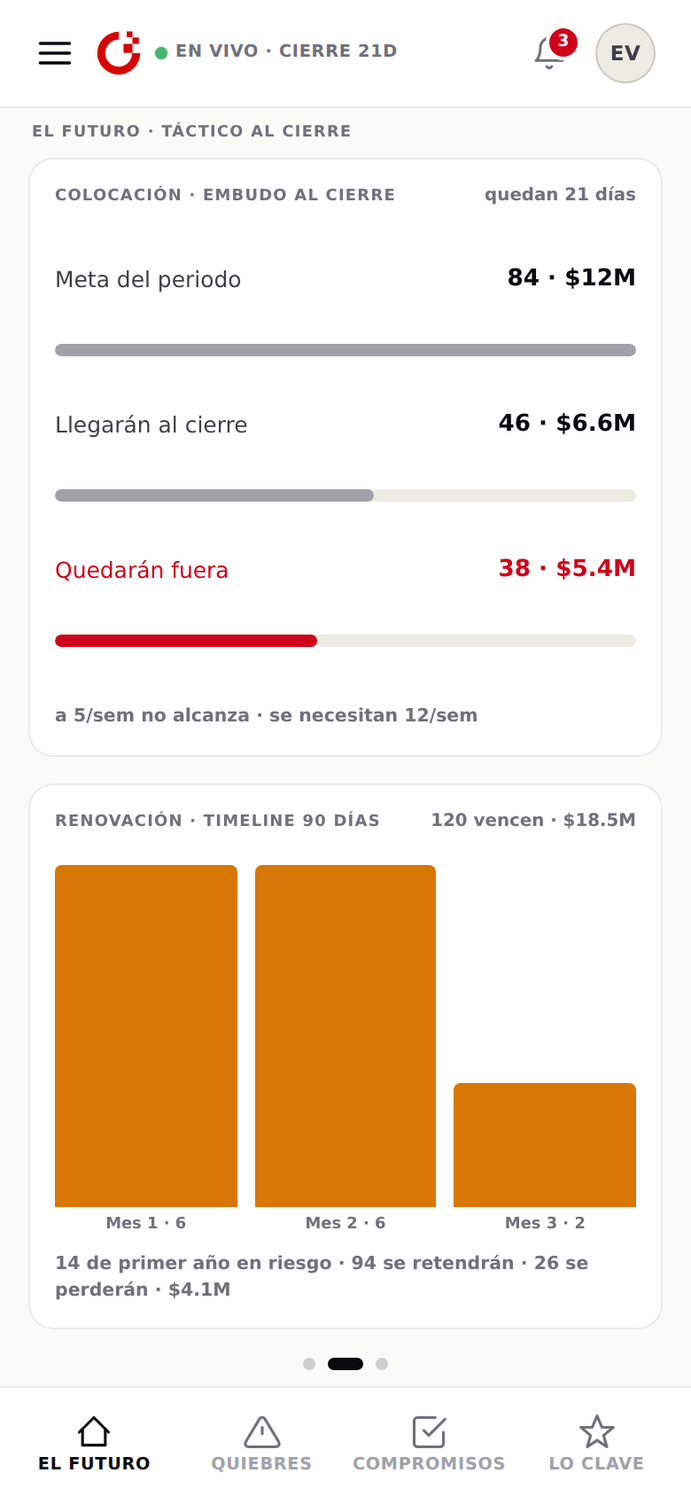
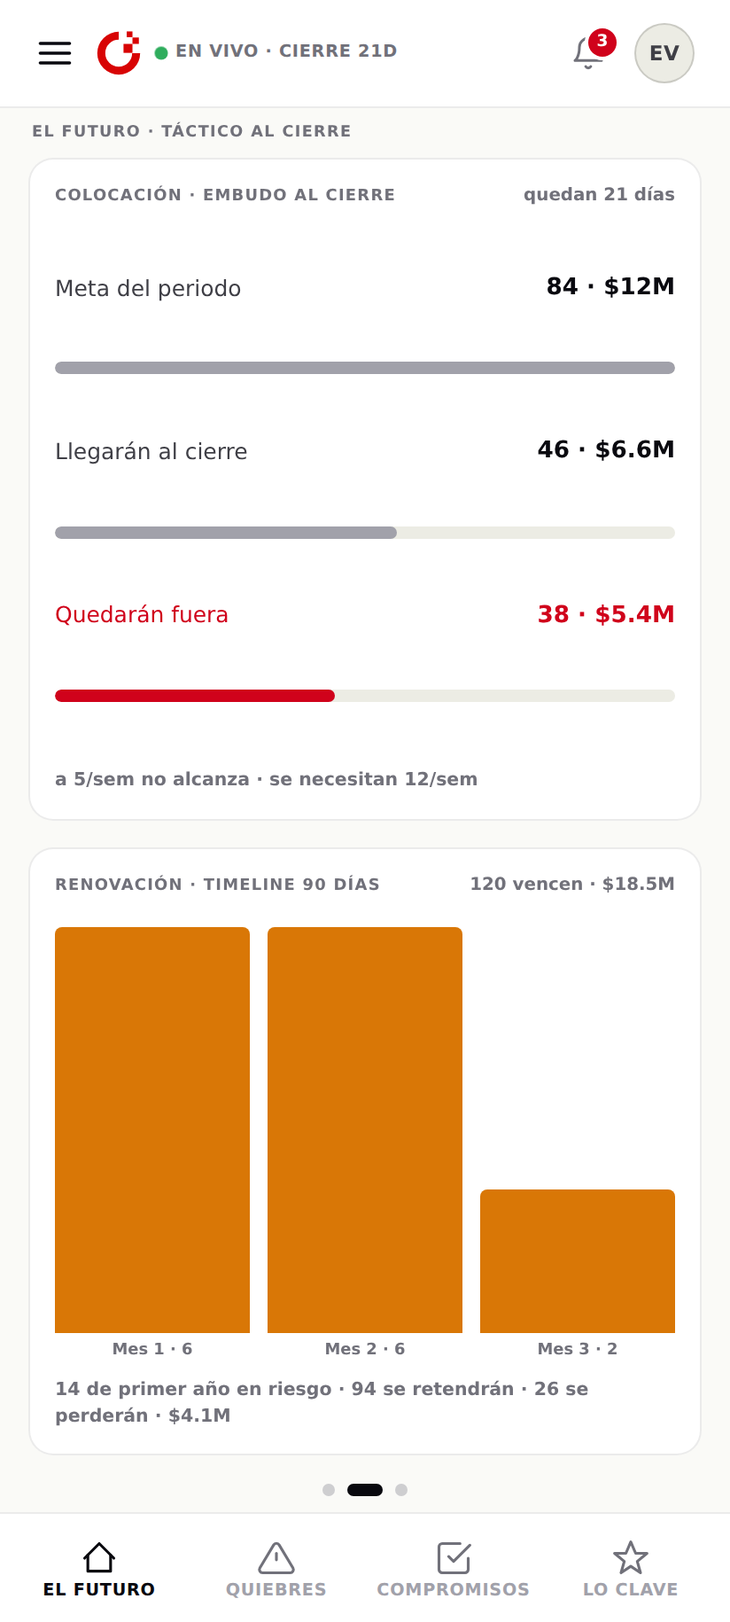
Desarrollo · Ontikos móvil: el tile de El Futuro con la anatomía de «Mi Semana»
Juicio del dueño: los tiles se veían amontonados, sin grilla interna, sin aire
pese a la altura, y los botones «de juguete». Se rehace la tarjeta leyendo el
CÓDIGO de la referencia viva (ontikos/mi-semana.html), no un resumen:

- Anatomía de Mi Semana: tarjeta radio 16 con sombra sutil y BORDE en el estado;
  ícono grande (estado) · título (700) · cifra con su pie · línea de contexto ·
  barra delgada 6px (999) con muesca · BOTÓN-PÍLDORA a lo ancho, relleno en el
  estado, ≥46px (instrumento, no juguete). Fuente: .card/.icon/.btn-logro.
- Aire repartido: el contenido va en dos bloques (texto arriba, barra+botón
  abajo) con space-between; el alto sobrante es aire, no hueco. La tarjeta
  respira como la referencia.
- Grilla adaptativa (minmax(min-content,1fr)): en el teléfono alto el 2×2 LLENA
  la pantalla sin scroll; en el corto guarda el alto airoso y la entrada se
  desplaza —como la propia Mi Semana—, sin recortar nunca el botón.
- Se quitan el filo lateral de 3px (la referencia usa borde completo) y el chip
  de estado (el color ya lo cargan borde+ícono+barra+botón).
- marco.html: §2 reescrito (anatomía de Mi Semana), §4 auditoría adaptativa
  (recortes=0 en toda la gama), §5 color; imágenes regeneradas.

Verificado con Playwright: recortes=0 en 13 mini, 15/16, 16 Pro Max, Pixel 8,
Pixel con barras, Galaxy S8 (todos LLENAN sin scroll), e iPhone SE 667 (+30px)
y SE con barras 553 (+152px), airosos y sin recortes.
[…]

diff --git a/desarrollo/movil/marco.html b/desarrollo/movil/marco.html
@@ -91,7 +91,7 @@ footer p{font-size:.84rem;color:var(--ink3);max-width:74ch}
     <h1>El marco de aplicación</h1>
     <p class="lede">Paso 3, rehecho. Ya no son piezas sobre una página que se desplaza entera: es una app. El marco no se mueve, la entrada se pagina, y el contenido es el del escritorio, de la misma fuente.</p>
     <p>La cabecera y la barra inferior quedan fijas; sólo la superficie corre. El Futuro se recorre de lado, página completa, sin desplazamiento vertical. Las otras secciones son listas que corren dentro de su zona. Dos niveles de navegación: la hamburguesa para los módulos, la barra inferior para las superficies del CEO. La gramática §5·G no se tocó.</p>
-    <span class="verdict">✓ La entrada cabe SIN scroll en el peor caso (iPhone SE · Safari con barras · 375×553)</span>
+    <span class="verdict">✓ Tile con la anatomía de «Mi Semana»: llena sin scroll en la gama moderna; airoso y sin recortes en los equipos cortos</span>
   </div>
 
   <!-- §1 ARQUITECTURA -->
@@ -132,22 +132,23 @@ footer p{font-size:.84rem;color:var(--ink3);max-width:74ch}
   <!-- §2 ENTRADA PAGINADA -->
   <div class="sec">
     <div class="sec-n">§2</div>
-    <h2>La entrada se pagina · el tile, recompuesto con semáforo</h2>
-    <p class="intro"><b>Composición de «Mi Semana»</b> (EstructuraMovil, vendedor móvil) <b>con su semáforo</b>: una idea por tile, aire y ritmo vertical constante, <b>y el color = estado de cumplimiento</b>, igual que el escritorio (<code>casa.css .card.alert/.good/.warn</code>). Cada tile lo lleva en tres canales a la vez —nunca sólo color—: el <b>filo lateral</b> de 3&nbsp;px, el <b>ícono</b> del frente (los mismos del escritorio: tendencia, maletín, renovar, triángulo) y el <b>botón relleno</b> en el estado (<b class="k-red">rojo</b> quiebre · ámbar advertencia · verde sano). La anatomía, igual en los cuatro: ícono + título (700) · estado en palabra (su propia línea, sin truncar) · la cifra con su barra y <b>muesca de referencia</b> (industria 84%, umbral 65%) · una línea de contexto · el acto como <b>botón real</b> ≥44&nbsp;px. El arco de escritorio no entra en el tile: vive en la hoja de detalle. <b>Se retiró la barra de decisión del pie:</b> cada tile ya remata en su propio acto, así que era redundante y su alto obligaba a desplazar y rompía la grilla; con ella fuera la 2×2 llena el alto y <b>cabe en el iPhone SE sin scroll</b>. La marca de la cabecera es ahora el <b>botón de inicio</b> (toca → El Futuro) con el <b>gesto del escritorio</b> (el anillo gira, los módulos entran).</p>
+    <h2>La entrada se pagina · el tile, con la anatomía de «Mi Semana»</h2>
+    <p class="intro"><b>Anatomía leída del código de la referencia viva</b> (<code>ontikos/mi-semana.html</code>, la tarjeta que el dueño señaló como bien hecha), no de un resumen: tarjeta de radio 16 con sombra sutil y <b>borde en el color del estado</b>; dentro, <b>ícono grande</b> en el estado · <b>título</b> (700) · la cifra con su pie · una línea de contexto · <b>barra delgada</b> (6&nbsp;px, 999) con <b>muesca de referencia</b> (industria 84%, umbral 65%) · un <b>botón-píldora a lo ancho</b>, relleno en el estado, ≥46&nbsp;px (instrumento, no juguete). El contenido se reparte en dos bloques —arriba el texto, abajo barra+botón— con <code>space-between</code>, de modo que el alto sobrante es <b>aire repartido</b>, no un hueco: la tarjeta respira como la referencia. Color = estado en <b>borde + ícono + barra + botón</b> (nunca sólo matiz: lo acompañan la forma del ícono y la palabra del contexto). El arco de escritorio no entra en el tile: vive en la hoja. <b>La grilla se adapta sola</b> (<code>minmax(min-content, 1fr)</code>): en el teléfono alto el 2×2 <b>llena la pantalla sin scroll</b>; en el corto las tarjetas guardan su alto airoso y la entrada <b>se desplaza —como la propia «Mi Semana»—</b>, sin recortar nunca el botón. La marca de la cabecera es el <b>botón de inicio</b> con el <b>gesto del escritorio</b>.</p>
     <div class="pair" style="margin-bottom:8px">
       <div class="unit"><div class="phone sm"><img src="img/mf-before.png" alt="Tile antes · arco y celdas"></div><div class="lbl">Antes · arco (velocímetro)</div></div>
-      <div class="unit"><div class="phone sm"><img src="img/mf-f1.png" alt="Tile ahora · semáforo + ícono"></div><div class="lbl">Ahora · semáforo + ícono</div></div>
+      <div class="unit"><div class="phone sm"><img src="img/mf-f1.png" alt="Tile ahora · anatomía de Mi Semana"></div><div class="lbl">Ahora · como Mi Semana</div></div>
       <div class="unit"><div class="phone sm"><img src="img/mf-before-dk.png" alt="Antes oscuro"></div><div class="lbl">Antes · oscuro</div></div>
       <div class="unit"><div class="phone sm"><img src="img/mf-f1-dk.png" alt="Ahora oscuro"></div><div class="lbl">Ahora · oscuro</div></div>
     </div>
     <div class="formlist">
-      <span class="fm">composición <span class="src">Mi Semana · EstructuraMovil (vendedor móvil)</span></span>
-      <span class="fm">color = estado: filo + ícono + botón <span class="src">casa · .card.alert/.good/.warn</span></span>
+      <span class="fm">anatomía (tarjeta, ícono, barra, botón) <span class="src">ontikos/mi-semana.html · .card/.icon/.btn-logro</span></span>
+      <span class="fm">color = estado: borde + ícono + barra + botón <span class="src">mi-semana · .state-risk/-progress/-done</span></span>
       <span class="fm">ícono por frente <span class="src">TableroCeo.jsx · ICON.coloc/cobr/reno/sini</span></span>
-      <span class="fm">barra delgada + muesca <span class="src">casa · .vd-meta-bar</span></span>
+      <span class="fm">barra 6px (999) + muesca <span class="src">mi-semana · .card-progress</span></span>
+      <span class="fm">botón-píldora a lo ancho ≥46px <span class="src">mi-semana · .btn-logro</span></span>
+      <span class="fm">aire repartido (space-between) + grilla que se adapta <span class="src">minmax(min-content,1fr)</span></span>
       <span class="fm">el arco vive en la hoja <span class="src">§5·G: arco en escritorio, barra en móvil</span></span>
       <span class="fm">marca = inicio, con gesto <span class="src">Marca.jsx · anillo + módulos</span></span>
-      <span class="fm">paginador + puntos <span class="src">pieza nueva</span></span>
     </div>
     <div class="pair">
       <div class="unit"><div class="phone sm"><img src="img/mf-f1.png" alt="El Futuro página 1 claro"></div><div class="lbl">P1 · claro</div></div>
@@ -181,25 +182,25 @@ footer p{font-size:.84rem;color:var(--ink3);max-width:74ch}
   <div class="sec">
     <div class="sec-n">§4</div>
     <h2>La auditoría de alturas</h2>
-    <p class="intro">Medida con el viewport visible real (<code>visualViewport</code>). Entrada = las dos filas de tiles (2×2) que <b>llenan</b> el alto, con los puntos del paginador y la barra inferior siempre visibles; Quiebres = indicadores + filtros + primera fila completa. Al retirar la barra de decisión, la grilla toma el alto que antes forzaba el scroll: <b>la entrada cabe sin desplazarse en toda la gama, incluido el peor caso</b> (SE con barras). «grilla→puntos» es el aire entre el fondo de la 2×2 y la banda de puntos.</p>
+    <p class="intro">Medida con el viewport visible real (<code>visualViewport</code>). El tile airoso de «Mi Semana» no cabe comprimido en una celda de 2×2 corta sin recortar el botón —y comprimir el aire es justo lo que se veía de juguete—. Por eso la grilla se <b>adapta</b> (<code>minmax(min-content,&nbsp;1fr)</code>): <b>en el teléfono alto llena la pantalla sin scroll</b>; en el corto guarda el alto airoso y la <b>entrada se desplaza —como la propia «Mi Semana»—, sin recortar nunca el botón</b> (<code>recortes = 0</code> en toda la gama). «Scroll» es cuánto se desplaza la entrada en vertical.</p>
     <table class="audit">
       <thead><tr>
         <th>Dispositivo</th><th>Viewport</th><th>Área segura ↑/↓</th>
-        <th>El Futuro · scroll</th><th>grilla→puntos</th><th>Quiebres · margen fila 1</th><th>Veredicto</th>
+        <th>El Futuro · scroll</th><th>Botón recortado</th><th>Quiebres · margen fila 1</th><th>Veredicto</th>
       </tr></thead>
       <tbody>
-        <tr><td class="dev">iPhone 13 mini</td><td>375 × 812</td><td>44 / 34</td><td class="ok">0 px</td><td>+6 px</td><td>+294 px</td><td class="ok">Cabe sin scroll</td></tr>
-        <tr><td class="dev">iPhone 15 / 16</td><td>393 × 852</td><td>59 / 34</td><td class="ok">0 px</td><td>+6 px</td><td>+334 px</td><td class="ok">Cabe sin scroll</td></tr>
-        <tr><td class="dev">iPhone 16 Pro Max</td><td>440 × 956</td><td>62 / 34</td><td class="ok">0 px</td><td>+6 px</td><td>+459 px</td><td class="ok">Cabe sin scroll</td></tr>
-        <tr><td class="dev">Pixel 8 (Android)</td><td>412 × 915</td><td>24 / 24</td><td class="ok">0 px</td><td>+6 px</td><td>+397 px</td><td class="ok">Cabe sin scroll</td></tr>
-        <tr><td class="dev">Pixel · con barras*</td><td>412 × 780</td><td>— / —</td><td class="ok">0 px</td><td>+6 px</td><td>+262 px</td><td class="ok">Cabe sin scroll</td></tr>
-        <tr><td class="dev">iPhone SE</td><td>375 × 667</td><td>20 / 0</td><td class="ok">0 px</td><td>+4 px</td><td>+149 px</td><td class="ok">Cabe sin scroll</td></tr>
-        <tr class="worst"><td class="dev">iPhone SE · barras*</td><td>375 × 553</td><td>0 / 0</td><td class="ok">0 px</td><td>+4 px</td><td>+35 px</td><td class="ok">Cabe sin scroll</td></tr>
-        <tr><td class="dev">Galaxy S8 (Android)</td><td>360 × 740</td><td>24 / 24</td><td class="ok">0 px</td><td>+4 px</td><td>+202 px</td><td class="ok">Cabe sin scroll</td></tr>
+        <tr><td class="dev">iPhone 13 mini</td><td>375 × 812</td><td>44 / 34</td><td class="ok">0 px</td><td class="ok">no</td><td>+294 px</td><td class="ok">Llena · sin scroll</td></tr>
+        <tr><td class="dev">iPhone 15 / 16</td><td>393 × 852</td><td>59 / 34</td><td class="ok">0 px</td><td class="ok">no</td><td>+334 px</td><td class="ok">Llena · sin scroll</td></tr>
+        <tr><td class="dev">iPhone 16 Pro Max</td><td>440 × 956</td><td>62 / 34</td><td class="ok">0 px</td><td class="ok">no</td><td>+459 px</td><td class="ok">Llena · sin scroll</td></tr>
+        <tr><td class="dev">Pixel 8 (Android)</td><td>412 × 915</td><td>24 / 24</td><td class="ok">0 px</td><td class="ok">no</td><td>+397 px</td><td class="ok">Llena · sin scroll</td></tr>
+        <tr><td class="dev">Pixel · con barras*</td><td>412 × 780</td><td>— / —</td><td class="ok">1 px</td><td class="ok">no</td><td>+262 px</td><td class="ok">Llena · sin scroll</td></tr>
+        <tr><td class="dev">Galaxy S8 (Android)</td><td>360 × 740</td><td>24 / 24</td><td class="ok">0 px</td><td class="ok">no</td><td>+202 px</td><td class="ok">Llena · sin scroll</td></tr>
+        <tr><td class="dev">iPhone SE</td><td>375 × 667</td><td>20 / 0</td><td class="tight">+30 px</td><td class="ok">no</td><td>+149 px</td><td class="ok">Airosa · se desplaza</td></tr>
+        <tr class="worst"><td class="dev">iPhone SE · barras*</td><td>375 × 553</td><td>0 / 0</td><td class="tight">+152 px</td><td class="ok">no</td><td>+35 px</td><td class="ok">Airosa · se desplaza</td></tr>
       </tbody>
     </table>
     <div class="note">
-      <p><b>Resuelto sin comprimir el aire.</b> La barra de decisión del pie era la que no dejaba caber la entrada en los equipos cortos. Como cada tile ya remata en su propio acto, se retiró: la 2×2 ocupa el alto liberado y <b>la página 1 cabe sin scroll en todos los viewports medidos</b> —incluido el peor caso, iPhone SE con barras (375×553), con la banda de puntos y la barra inferior visibles—. En los equipos cortos el ritmo interno se afina (relleno, cifra, gap) sin bajar el acto de 44&nbsp;px ni truncar nada. No queda una decisión de scroll pendiente.</p>
+      <p><b>El aire, intacto; nada se recorta.</b> Toda la gama moderna —incluido el teléfono del dueño (Pixel, 780–915) y hasta el Galaxy&nbsp;S8 (740)— <b>llena la pantalla sin scroll</b>, con las tarjetas airosas. Sólo los dos equipos realmente cortos (iPhone SE 667 y con barras 553) <b>se desplazan</b> (+30 y +152&nbsp;px), conservando el mismo tile airoso —<b>como la propia «Mi Semana», que también se desplaza</b>—, en vez de comprimirlo a tamaño de juguete. El botón-píldora no se recorta en ningún caso.</p>
       <p><b>Quiebres</b> cabe con margen en todos (el peor, SE con barras: +35&nbsp;px), porque la lista se desplaza dentro de su zona por diseño.</p>
       <p><b>* El límite, declarado:</b> la emulación de WebKit headless no reproduce las barras dinámicas de Safari/Chrome; rinde a viewport completo. Las filas «con barras» se rindieron a una altura reducida (≈ el viewport con barras) como prueba. La confirmación final se hace en equipo real.</p>
     </div>
@@ -221,7 +222,7 @@ footer p{font-size:.84rem;color:var(--ink3);max-width:74ch}
       <span class="fm"><b>Piezas nuevas (declaradas):</b> el panel de la hamburguesa, el paginador con puntos, la marca como inicio con su gesto, EN VIVO·CIERRE (3 estados), el gauge móvil de la hoja (heredado del escritorio)</span>
     </div>
     <div class="note">
-      <p><b>Color = significado (semáforo de cumplimiento).</b> Cada tile revela su estado en tres canales a la vez —filo lateral, ícono y botón relleno—, no sólo en matiz: <b class="k-red">rojo</b> quiebre, ámbar advertencia, verde sano; el dinero y el activo de la nav en tinta; en oscuro el rojo de texto usa su variante AA. El ícono de marca va en su rojo de kit verbatim (es marca, no texto). Se retiró la barra de decisión del pie (redundante con el acto de cada tile, y rompía la grilla).</p>
+      <p><b>Color = significado (semáforo de cumplimiento).</b> Cada tile revela su estado en varios canales a la vez —borde, ícono, barra y botón relleno—, no sólo en matiz: <b class="k-red">rojo</b> quiebre, ámbar advertencia, verde sano; el dinero y el activo de la nav en tinta; en oscuro el rojo de texto usa su variante AA. El ícono de marca va en su rojo de kit verbatim (es marca, no texto). La barra de decisión del pie se retiró (redundante con el acto de cada tile).</p>
       <p><b>El responsable.</b> En 375&nbsp;px no caben nombre + chip + plazo + acto + peso en la fila; el responsable lo lleva el avatar (iniciales) y la hoja de detalle muestra el nombre completo. Chip y plazo quedan siempre visibles.</p>
       <p><b>Carbon.</b> La grilla sigue siendo la de pantalla chica (4 columnas, relleno 16, breakpoint Small, verificada en el MCP). La hoja pegada al borde inferior sigue a Carbon · Modal · Mobile (verificada en el MCP) y además es la <code>.modal</code> de la casa.</p>
     </div>

diff --git a/desarrollo/movil/assets/movil.css b/desarrollo/movil/assets/movil.css
@@ -102,82 +102,70 @@
 .gz-pace{font-size:.66rem;font-weight:800;margin-top:3px;line-height:1.2}
 .gz-pace.r{color:var(--red-tx,var(--red))} .gz-pace.a{color:var(--amber)} .gz-pace.g{color:var(--green)} .gz-pace.n{color:var(--ink2)}
 
-/* ── El tile de línea estratégica · COMPOSICIÓN de «Mi Semana» + SEMÁFORO ────
-   Composición tomada de «Mi Semana» (EstructuraMovil · Ontikos vendedor móvil):
-   una idea por tarjeta, aire, ritmo vertical constante, peso contenido, ÍCONO,
-   acto como botón. Y el COLOR = ESTADO de cumplimiento, como «Mi Semana» y como
-   el escritorio (casa.css .card.alert/.good/.warn): el filo lateral, el ícono y
-   el botón van EN el estado (rojo quiebre · ámbar advertencia · verde sano).
-   El arco de escritorio no entra en el tile: el avance va en BARRA con muesca de
-   referencia; el arco se muestra en la hoja (instrumento a escala de escritorio).
-   Procedencia: estructura-movil.css + marco/casa.css (.card.alert/.good/.warn). */
-.lgrid{display:grid;grid-template-columns:1fr 1fr;grid-template-rows:1fr 1fr;gap:12px;flex:1 1 auto;min-height:0}
-.ltile{position:relative;background:var(--surf);border:1px solid var(--brd);border-radius:14px;padding:14px 14px 14px 15px;display:flex;flex-direction:column;gap:9px;min-width:0;min-height:0;overflow:hidden;cursor:pointer;text-align:left}
-/* semáforo de cumplimiento (como el escritorio): borde en el estado + filo
-   lateral de 3px. color=significado, y nunca sólo color: lo acompaña el ícono. */
-.ltile.alert{border-color:var(--red-brd,var(--red))}
-.ltile.good{border-color:var(--green-brd,var(--green))}
-.ltile.warn{border-color:var(--amber-brd,var(--amber))}
-.ltile::before{content:"";position:absolute;left:0;top:0;bottom:0;width:3px;border-radius:14px 0 0 14px}
-.ltile.alert::before{background:var(--red)}
-.ltile.good::before{background:var(--green)}
-.ltile.warn::before{background:var(--amber-fill,var(--amber))}
-/* 1 · cabecera: ÍCONO (en el estado) + título (700) + estado (chip) */
-.lt-head{display:flex;align-items:center;gap:8px;min-width:0}
-.lt-ico{width:20px;height:20px;flex:none;display:flex;align-items:center;justify-content:center}
-.lt-ico svg{width:100%;height:100%;fill:none;stroke-width:2;stroke-linecap:round;stroke-linejoin:round;stroke:var(--ink3)}
+/* ── El tile de línea estratégica · ANATOMÍA de «Mi Semana», verbatim ────────
+   Leído del código de la referencia viva (ontikos/mi-semana.html · la tarjeta
+   que el dueño señaló como bien hecha): tarjeta con radio 16, sombra sutil,
+   BORDE en el color del estado; dentro, ÍCONO grande (estado) · título (600) ·
+   dos líneas · barra delgada 6px (999) · BOTÓN-PÍLDORA a lo ancho, relleno en el
+   estado. Aquí el contenido se reparte en dos bloques —lt-top arriba, lt-foot
+   abajo (barra+botón)— con space-between, para que el alto sobrante sea AIRE
+   repartido, no un hueco: en el teléfono alto las tarjetas respiran como la
+   referencia. Color = estado en borde + ícono + barra + botón (nunca sólo
+   matiz: lo acompañan la forma del ícono y la palabra del contexto).
+   Procedencia: ontikos/mi-semana.html (.card/.icon/.label/.desc/.btn-logro). */
+/* La grilla se ADAPTA sola, sin umbrales frágiles: cada fila llena el alto
+   (1fr) cuando hay sitio, pero nunca baja de su contenido (min-content). Si las
+   dos filas airosas no caben (teléfono corto o líneas de contexto que envuelven),
+   toman su alto natural y la ENTRADA se desplaza —como la propia «Mi Semana»—,
+   sin recortar nunca el botón. En el teléfono alto llena la pantalla sin scroll. */
+.lgrid{display:grid;grid-template-columns:1fr 1fr;grid-template-rows:repeat(2,minmax(min-content,1fr));gap:16px;flex:1 1 auto;min-height:0}
+.pager-host .sc.on .page{overflow-y:auto;overflow-x:hidden}
+.ltile{background:var(--surf);border:1px solid var(--brd);border-radius:16px;padding:18px;display:flex;flex-direction:column;justify-content:space-between;gap:12px;min-width:0;min-height:0;overflow:hidden;cursor:pointer;text-align:left;box-shadow:0 2px 10px rgba(9,9,15,.04)}
+.ltile>*{min-width:0;width:100%}
+/* semáforo: el BORDE lleva el estado (como la referencia: .state-risk, etc.) */
+.ltile.alert{border-color:var(--red)}
+.ltile.good{border-color:var(--green)}
+.ltile.warn{border-color:var(--amber)}
+/* lt-top: ícono · título · cifra · contexto (bloque superior, alto natural) */
+.lt-top{display:flex;flex-direction:column}
+/* ícono grande en el estado (la referencia lo lleva a 26-32px, sólido) */
+.lt-ico{width:30px;height:30px;flex:none;display:block;margin-bottom:10px}
+.lt-ico svg{width:100%;height:100%;fill:none;stroke-width:2.1;stroke-linecap:round;stroke-linejoin:round;stroke:var(--ink3)}
 .lt-ico.r svg{stroke:var(--red)} .lt-ico.a svg{stroke:var(--amber)} .lt-ico.g svg{stroke:var(--green)}
-.lt-t{font-size:.92rem;font-weight:700;letter-spacing:-.02em;line-height:1.05;color:var(--ink);min-width:0;overflow:hidden;text-overflow:ellipsis;white-space:nowrap}
-/* el estado en PALABRA, en su propia línea (no se trunca ni empuja el título);
-   el color ya lo cargan el filo, el ícono y el botón. */
-.ltile .memb-chip{font-size:.52rem;padding:2px 8px;white-space:nowrap;align-self:flex-start;margin:-2px 0 0}
-/* 3 · la cifra con su barra (única cifra a 900 del tile, moderada) */
-.lt-metric{display:flex;flex-direction:column;gap:7px}
-.lt-figrow{display:flex;align-items:baseline;gap:7px}
-.lt-pct{font-size:1.5rem;font-weight:900;letter-spacing:-.03em;line-height:1;font-variant-numeric:tabular-nums;color:var(--ink)}
-.lt-pct-cap{font-size:.66rem;font-weight:600;color:var(--ink3)}
-.lt-bar{position:relative;height:8px;background:var(--surf3);border-radius:99px}
-.lt-bar-fill{position:absolute;left:0;top:0;height:100%;border-radius:99px}
-.lt-bar-fill.r{background:var(--red)} .lt-bar-fill.a{background:var(--amber-fill,var(--amber))} .lt-bar-fill.g{background:var(--green)}
-.lt-bar-notch{position:absolute;top:-2px;width:2px;height:12px;background:var(--ink);opacity:.5;border-radius:1px;margin-left:-1px}
-/* 4 · una sola línea de contexto (regular; color del estado sólo si lo carga) */
-.lt-ctx{font-size:.76rem;font-weight:500;color:var(--ink2);line-height:1.3}
+.lt-t{font-size:1rem;font-weight:700;letter-spacing:-.02em;line-height:1.25;color:var(--ink);margin-bottom:6px;overflow:hidden;text-overflow:ellipsis;white-space:nowrap}
+/* dos líneas, como «Meta/Logro»: la cifra héroe con su pie debajo, y el contexto.
+   El pie va DEBAJO del número (no al lado) para no romperse en la celda angosta. */
+.lt-fig{display:flex;align-items:baseline;gap:7px;line-height:1;flex-wrap:wrap}
+.lt-pct{font-size:1.6rem;font-weight:900;letter-spacing:-.03em;line-height:1;font-variant-numeric:tabular-nums;color:var(--ink)}
+.lt-cap{font-size:.78rem;font-weight:600;color:var(--ink3);white-space:nowrap}
+.lt-ctx{font-size:.8rem;font-weight:500;color:var(--ink2);line-height:1.35;margin-top:5px}
 .lt-ctx.r{color:var(--red-tx,var(--red));font-weight:600} .lt-ctx.a{color:var(--amber);font-weight:600} .lt-ctx.g{color:var(--green);font-weight:600}
-/* 5 · el acto como BOTÓN real: ancho completo, ≥44px, RELLENO en el semáforo
-   (como «Mi Semana»: el botón refleja el estado de cumplimiento) */
-.ltile-act{margin-top:auto;display:block;width:100%;border:1.5px solid var(--ink);background:none;border-radius:11px;padding:11px 10px;min-height:44px;font-size:.78rem;font-weight:800;color:var(--ink);cursor:pointer;text-align:center;font-family:inherit;letter-spacing:-.01em}
-.ltile-act.r{background:var(--red);border-color:var(--red);color:#fff}
-.ltile-act.a{background:var(--amber-fill,var(--amber));border-color:var(--amber-fill,var(--amber));color:#fff}
-.ltile-act.g{background:var(--green);border-color:var(--green);color:#fff}
-.ltile-act:active{transform:translateY(1px)}
-/* en pantallas altas: más aire, ícono y cifra mayores (uso del espacio liberado
-   al quitar la barra de decisión; lo gráfico crece sin romper la grilla) */
+/* lt-foot: barra + botón (bloque inferior, pegado al pie) */
+.lt-foot{display:flex;flex-direction:column}
+.lt-bar{position:relative;height:6px;background:var(--surf3);border-radius:999px;margin-bottom:12px}
+.lt-bar-fill{position:absolute;left:0;top:0;height:100%;border-radius:999px}
+.lt-bar-fill.r{background:var(--red)} .lt-bar-fill.a{background:var(--amber-fill,var(--amber))} .lt-bar-fill.g{background:var(--green)}
+.lt-bar-notch{position:absolute;top:-3px;width:2px;height:12px;background:var(--ink);opacity:.55;border-radius:1px;margin-left:-1px}
+/* el acto · BOTÓN-PÍLDORA a lo ancho, relleno en el estado, ≥46px (instrumento,
+   no juguete): radio 999, centrado, con la flecha de «hazlo» */
+.lt-act{display:inline-flex;align-items:center;justify-content:center;gap:7px;width:100%;border:none;border-radius:999px;padding:13px 14px;min-height:46px;font-size:.88rem;font-weight:700;letter-spacing:-.01em;color:#fff;background:var(--ink);cursor:pointer;font-family:inherit;white-space:nowrap;overflow:hidden;text-overflow:ellipsis}
+.lt-act.r{background:var(--red)} .lt-act.a{background:var(--amber-fill,var(--amber))} .lt-act.g{background:var(--green)}
+.lt-act:active{transform:scale(.97)}
+/* teléfono alto: la tarjeta respira más (ícono, cifra y relleno mayores) */
 @media (min-height:760px){
-  .lgrid{gap:14px}
-  .ltile{padding:16px 16px 16px 17px;gap:12px}
-  .lt-head{gap:9px}
-  .lt-ico{width:23px;height:23px}
-  .lt-t{font-size:1rem}
-  .lt-pct{font-size:1.85rem}
-  .lt-pct-cap{font-size:.74rem}
-  .lt-bar{height:10px}
-  .lt-ctx{font-size:.82rem}
-  .ltile-act{font-size:.82rem;padding:12px}
+  .ltile{padding:22px}
+  .lt-ico{width:34px;height:34px;margin-bottom:12px}
+  .lt-t{font-size:1.1rem}
+  .lt-pct{font-size:1.9rem}
+  .lt-cap{font-size:.85rem}
+  .lt-ctx{font-size:.88rem}
+  .lt-act{font-size:.95rem;min-height:50px;padding:14px 18px}
 }
-/* En viewports cortos (iPhone SE con las barras de Safari) la grilla 2×2 LLENA
-   el alto disponible sin desplazarse: al retirar la barra de decisión sobra el
-   alto que antes obligaba a comprimir o a hacer scroll. Se afina sólo el ritmo
-   (relleno, cifra, gap) para que el tile airoso quepa sin recortar nada. */
-@media (max-height:759px){
-  .page{padding-top:6px;padding-bottom:4px;gap:5px}
-  .lgrid{gap:10px}
-  .ltile{padding:12px 12px 12px 13px;gap:7px}
-  .lt-ico{width:18px;height:18px}
-  .lt-t{font-size:.86rem}
-  .lt-pct{font-size:1.35rem}
-  .lt-pct-cap{font-size:.62rem}
-  .lt-ctx{font-size:.72rem}
-  .ltile-act{padding:10px 8px;font-size:.74rem}
+/* teléfono corto: cuando la grilla se desplaza (minmax arriba), las tarjetas
+   conservan un alto mínimo airoso para no quedar chatas. */
+@media (max-height:639px){
+  .lgrid{grid-template-rows:none;grid-auto-rows:minmax(190px,auto);flex:0 0 auto}
+  .page{padding-top:8px;padding-bottom:8px}
 }
 
 /* ══ 5 · color = significado y ajustes sobre las formas heredadas ════════════ */

diff --git a/desarrollo/movil/index.html b/desarrollo/movil/index.html
@@ -75,66 +75,64 @@
     <section class="sc on" id="futuro">
       <div class="pager" id="pager">
 
-        <!-- Página 1 · las cuatro líneas 2×2 · color = estado de cumplimiento
-             (semáforo como «Mi Semana»: filo + ícono + botón en el estado) -->
+        <!-- Página 1 · las cuatro líneas 2×2 · anatomía de «Mi Semana»:
+             ícono grande (estado) · título · dos líneas · barra · botón-píldora.
+             Color = estado en borde + ícono + barra + botón. Aire repartido
+             (lt-top arriba, lt-foot abajo) para que la tarjeta respire. -->
         <div class="page">
           <div class="page-ey">Si nadie actúa, al cierre</div>
           <div class="lgrid">
             <!-- Colocación · en quiebre (rojo) -->
             <div class="ltile alert" onclick="openLine('colocacion')">
-              <div class="lt-head">
+              <div class="lt-top">
                 <span class="lt-ico r"><svg viewBox="0 0 24 24"><path d="M23 18l-9.5-9.5-5 5L1 6"/><polyline points="17 18 23 18 23 12"/></svg></span>
-                <span class="lt-t">Colocación</span>
+                <div class="lt-t">Colocación</div>
+                <div class="lt-fig"><span class="lt-pct">55%</span><span class="lt-cap">de la meta</span></div>
+                <div class="lt-ctx r">5/sem · faltan 12</div>
               </div>
-              <span class="memb-chip expired">en quiebre</span>
-              <div class="lt-metric">
-                <div class="lt-figrow"><span class="lt-pct">55%</span><span class="lt-pct-cap">de la meta</span></div>
+              <div class="lt-foot">
                 <div class="lt-bar"><div class="lt-bar-fill r" style="width:55%"></div></div>
+                <button class="lt-act r">Pedir acción</button>
               </div>
-              <div class="lt-ctx r">5/sem · faltan 12</div>
-              <button class="ltile-act r">Pedir acción</button>
             </div>
             <!-- Cobranza · sano (verde) -->
             <div class="ltile good" onclick="openLine('cobranza')">
-              <div class="lt-head">
+              <div class="lt-top">
                 <span class="lt-ico g"><svg viewBox="0 0 24 24"><rect x="2" y="7" width="20" height="14" rx="2"/><path d="M16 21V5a2 2 0 0 0-2-2h-4a2 2 0 0 0-2 2v16"/></svg></span>
-                <span class="lt-t">Cobranza</span>
+                <div class="lt-t">Cobranza</div>
+                <div class="lt-fig"><span class="lt-pct">96%</span><span class="lt-cap">en plazo</span></div>
+                <div class="lt-ctx g">vencido 3.8%, estable</div>
               </div>
-              <span class="memb-chip">sano</span>
-              <div class="lt-metric">
-                <div class="lt-figrow"><span class="lt-pct">96%</span><span class="lt-pct-cap">en plazo</span></div>
+              <div class="lt-foot">
                 <div class="lt-bar"><div class="lt-bar-fill g" style="width:96%"></div></div>
+                <button class="lt-act g">Revisar los 16</button>
               </div>
-              <div class="lt-ctx g">vencido 3.8%, estable</div>
-              <button class="ltile-act g">Revisar los 16</button>
             </div>
             <!-- Renovación · bajo industria (ámbar · muesca ind. 84%) -->
             <div class="ltile warn" onclick="openLine('renovacion')">
-              <div class="lt-head">
+              <div class="lt-top">
                 <span class="lt-ico a"><svg viewBox="0 0 24 24"><polyline points="23 4 23 10 17 10"/><path d="M20.49 15a9 9 0 1 1-2.12-9.36L23 10"/></svg></span>
-                <span class="lt-t">Renovación</span>
+                <div class="lt-t">Renovación</div>
+                <div class="lt-fig"><span class="lt-pct">78%</span><span class="lt-cap">retención</span></div>
+                <div class="lt-ctx a">3 meses a la baja</div>
               </div>
-              <span class="memb-chip grace">bajo industria</span>
-              <div class="lt-metric">
-                <div class="lt-figrow"><span class="lt-pct">78%</span><span class="lt-pct-cap">retención</span></div>
+              <div class="lt-foot">
                 <div class="lt-bar"><div class="lt-bar-fill a" style="width:78%"></div><span class="lt-bar-notch" style="left:84%" title="industria 84%"></span></div>
+                <button class="lt-act a">Pedir acción</button>
               </div>
-              <div class="lt-ctx a">3 meses a la baja</div>
-              <button class="ltile-act a">Pedir acción</button>
             </div>
             <!-- Siniestralidad · sobre umbral (ámbar · muesca umbral 65%) -->
             <div class="ltile warn" onclick="openLine('siniestralidad')">
-              <div class="lt-head">
+              <div class="lt-top">
                 <span class="lt-ico a"><svg viewBox="0 0 24 24"><path d="M10.29 3.86L1.82 18a2 2 0 0 0 1.71 3h16.94a2 2 0 0 0 1.71-3L13.71 3.86a2 2 0 0 0-3.42 0z"/><line x1="12" y1="9" x2="12" y2="13"/><line x1="12" y1="17" x2="12.01" y2="17"/></svg></span>
-                <span class="lt-t">Siniestralidad</span>
+                <div class="lt-t">Siniestralidad</div>
+                <div class="lt-fig"><span class="lt-pct">71%</span><span class="lt-cap">índice</span></div>
+                <div class="lt-ctx a">sube · 3 meses</div>
               </div>
-              <span class="memb-chip grace">sobre umbral</span>
-              <div class="lt-metric">
-                <div class="lt-figrow"><span class="lt-pct">71%</span><span class="lt-pct-cap">índice</span></div>
+              <div class="lt-foot">
                 <div class="lt-bar"><div class="lt-bar-fill a" style="width:71%"></div><span class="lt-bar-notch" style="left:65%" title="umbral 65%"></span></div>
+                <button class="lt-act a">Pedir acción</button>
               </div>
-              <div class="lt-ctx a">sube · 3 meses</div>
-              <button class="ltile-act a">Pedir acción</button>
             </div>
           </div>
         </div>
